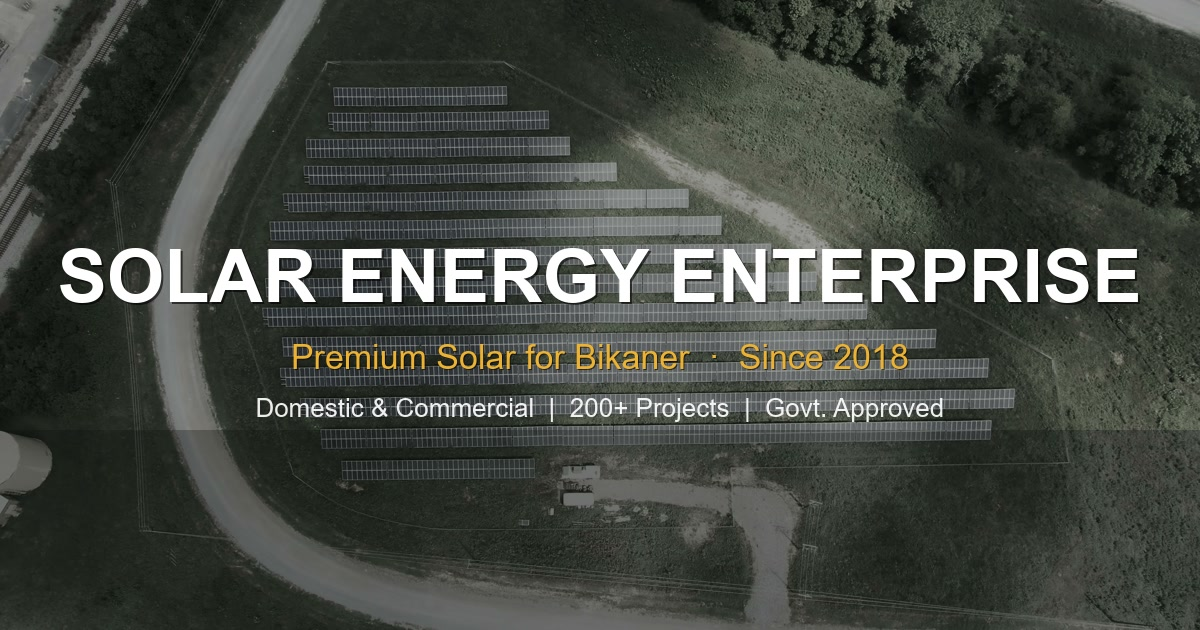
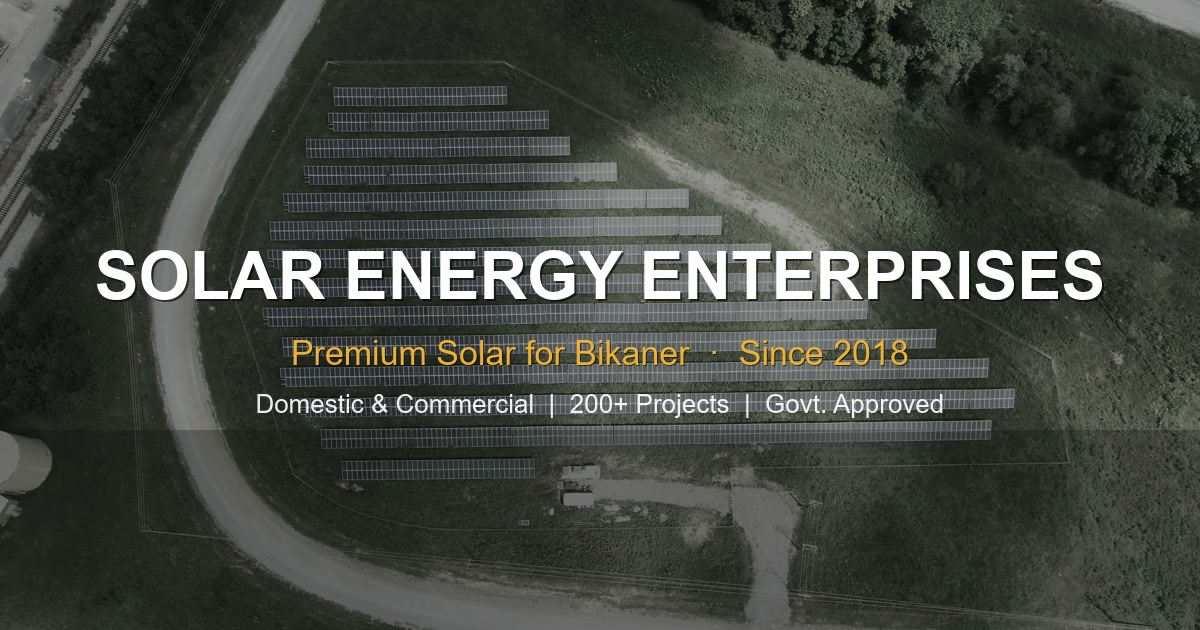
Rename brand to 'Solar Energy Enterprises' (plural) site-wide
Match the official/registered name used on Google, Justdial and the
invoice, for NAP consistency and local SEO.
- Logo wordmark, nav, footer, loader, titles, meta, OG/Twitter,
  JSON-LD schema, manifest, and support WhatsApp message
- Regenerated OG share image with the plural name; og-image ?v=2
- support.js ?v=2

Changed region(s): [[0.0308, 0.3921, 0.9558, 0.4825], [0.2158, 0.5429, 0.8017, 0.6635], [0.6167, 0.5429, 0.7708, 0.6032]]

diff --git a/index.html b/index.html
@@ -4,11 +4,11 @@
 <meta charset="utf-8">
 <meta name="viewport" content="width=device-width, initial-scale=1">
 <script>document.documentElement.classList.add('js')</script>
-<title>Solar Energy Enterprise — Premium Solar for Bikaner</title>
+<title>Solar Energy Enterprises — Premium Solar for Bikaner</title>
 <meta name="description" content="Rajasthan's premium solar partner since 2018. Domestic and commercial solar — design, installation and support. Approved by State & Central Government. 200+ projects delivered.">
 <meta name="robots" content="index, follow, max-image-preview:large">
 <meta name="keywords" content="solar Bikaner, solar panel Bikaner, rooftop solar Rajasthan, residential solar, commercial solar, PM Surya Ghar, solar subsidy, solar installation Bikaner">
-<meta name="author" content="Solar Energy Enterprise">
+<meta name="author" content="Solar Energy Enterprises">
 <meta name="geo.region" content="IN-RJ">
 <meta name="geo.placename" content="Bikaner">
 <meta name="theme-color" content="#ff6a1a">
@@ -18,22 +18,22 @@
 <link rel="apple-touch-icon" href="/assets/img/icon-180.png">
 <link rel="manifest" href="/site.webmanifest">
 <meta property="og:type" content="website">
-<meta property="og:site_name" content="Solar Energy Enterprise">
-<meta property="og:title" content="Solar Energy Enterprise — Premium Solar for Bikaner">
+<meta property="og:site_name" content="Solar Energy Enterprises">
+<meta property="og:title" content="Solar Energy Enterprises — Premium Solar for Bikaner">
 <meta property="og:description" content="Rajasthan's premium solar partner since 2018. Domestic & commercial solar, design to support. Govt. approved. 200+ projects delivered.">
 <meta property="og:url" content="https://solarenergyenterprise.com/">
-<meta property="og:image" content="https://solarenergyenterprise.com/assets/img/og-image.jpg">
+<meta property="og:image" content="https://solarenergyenterprise.com/assets/img/og-image.jpg?v=2">
 <meta property="og:image:width" content="1200">
 <meta property="og:image:height" content="630">
 <meta property="og:locale" content="en_IN">
 <meta name="twitter:card" content="summary_large_image">
-<meta name="twitter:title" content="Solar Energy Enterprise — Premium Solar for Bikaner">
+<meta name="twitter:title" content="Solar Energy Enterprises — Premium Solar for Bikaner">
 <meta name="twitter:description" content="Domestic & commercial solar in Bikaner since 2018. Govt. approved. 200+ projects delivered.">
-<meta name="twitter:image" content="https://solarenergyenterprise.com/assets/img/og-image.jpg">
+<meta name="twitter:image" content="https://solarenergyenterprise.com/assets/img/og-image.jpg?v=2">
 <script type="application/ld+json">
 {"@context":"https://schema.org","@graph":[
-{"@type":"ElectricalContractor","@id":"https://solarenergyenterprise.com/#business","name":"Solar Energy Enterprise","image":"https://solarenergyenterprise.com/assets/img/og-image.jpg","logo":"https://solarenergyenterprise.com/assets/img/icon-180.png","url":"https://solarenergyenterprise.com/","telephone":"+916376728054","priceRange":"₹₹","foundingDate":"2018","description":"Premium domestic & commercial solar in Bikaner, Rajasthan — design, installation and support. Approved by State & Central Government. 200+ projects delivered.","address":{"@type":"PostalAddress","streetAddress":"Jawahar Nagar, Near Dudi Petrol Pump","addressLocality":"Bikaner","addressRegion":"Rajasthan","postalCode":"334001","addressCountry":"IN"},"geo":{"@type":"GeoCoordinates","latitude":28.0229,"longitude":73.3119},"areaServed":[{"@type":"City","name":"Bikaner"},{"@type":"State","name":"Rajasthan"}],"openingHoursSpecification":[{"@type":"OpeningHoursSpecification","dayOfWeek":["Monday","Tuesday","Wednesday","Thursday","Friday","Saturday"],"opens":"09:30","closes":"19:00"}],"contactPoint":[{"@type":"ContactPoint","telephone":"+916376728054","contactType":"sales"},{"@type":"ContactPoint","telephone":"+919829641110","contactType":"customer support"}],"hasOfferCatalog":{"@type":"OfferCatalog","name":"Solar Solutions","itemListElement":[{"@type":"Offer","priceCurrency":"INR","price":"180000","itemOffered":{"@type":"Service","name":"Residential Solar (3–20 KW)"}},{"@type":"Offer","priceCurrency":"INR","price":"350000","itemOffered":{"@type":"Service","name":"Commercial Solar (5–200 KW)"}}]}},
-{"@type":"WebSite","@id":"https://solarenergyenterprise.com/#website","url":"https://solarenergyenterprise.com/","name":"Solar Energy Enterprise","publisher":{"@id":"https://solarenergyenterprise.com/#business"}}
+{"@type":"ElectricalContractor","@id":"https://solarenergyenterprise.com/#business","name":"Solar Energy Enterprises","image":"https://solarenergyenterprise.com/assets/img/og-image.jpg?v=2","logo":"https://solarenergyenterprise.com/assets/img/icon-180.png","url":"https://solarenergyenterprise.com/","telephone":"+916376728054","priceRange":"₹₹","foundingDate":"2018","description":"Premium domestic & commercial solar in Bikaner, Rajasthan — design, installation and support. Approved by State & Central Government. 200+ projects delivered.","address":{"@type":"PostalAddress","streetAddress":"Jawahar Nagar, Near Dudi Petrol Pump","addressLocality":"Bikaner","addressRegion":"Rajasthan","postalCode":"334001","addressCountry":"IN"},"geo":{"@type":"GeoCoordinates","latitude":28.0229,"longitude":73.3119},"areaServed":[{"@type":"City","name":"Bikaner"},{"@type":"State","name":"Rajasthan"}],"openingHoursSpecification":[{"@type":"OpeningHoursSpecification","dayOfWeek":["Monday","Tuesday","Wednesday","Thursday","Friday","Saturday"],"opens":"09:30","closes":"19:00"}],"contactPoint":[{"@type":"ContactPoint","telephone":"+916376728054","contactType":"sales"},{"@type":"ContactPoint","telephone":"+919829641110","contactType":"customer support"}],"hasOfferCatalog":{"@type":"OfferCatalog","name":"Solar Solutions","itemListElement":[{"@type":"Offer","priceCurrency":"INR","price":"180000","itemOffered":{"@type":"Service","name":"Residential Solar (3–20 KW)"}},{"@type":"Offer","priceCurrency":"INR","price":"350000","itemOffered":{"@type":"Service","name":"Commercial Solar (5–200 KW)"}}]}},
+{"@type":"WebSite","@id":"https://solarenergyenterprise.com/#website","url":"https://solarenergyenterprise.com/","name":"Solar Energy Enterprises","publisher":{"@id":"https://solarenergyenterprise.com/#business"}}
 ]}
 </script>
 <link rel="preconnect" href="https://fonts.googleapis.com">
@@ -50,7 +50,7 @@
 <div class="loader" id="loader" aria-hidden="true">
   <div class="loader__in">
     <div class="loader__mark"><svg viewBox="0 0 128 128"><use href="#i-mark"/></svg></div>
-    <div class="loader__name">Solar Energy Enterprise</div>
+    <div class="loader__name">Solar Energy Enterprises</div>
     <div class="loader__tag">Renewable Energy</div>
     <div class="loader__bar"><i id="loaderBar"></i></div>
     <div class="loader__pct"><span id="loaderPct">0</span>%</div>
@@ -76,9 +76,9 @@
 <!-- NAV -->
 <header class="nav" id="nav">
   <div class="wrap nav__in">
-    <a class="brand" href="#top" data-cursor="hover" aria-label="Solar Energy Enterprise — home">
+    <a class="brand" href="#top" data-cursor="hover" aria-label="Solar Energy Enterprises — home">
       <span class="brand__mark"><svg viewBox="0 0 128 128"><use href="#i-mark"/></svg></span>
-      <span class="brand__txt">Solar Energy<br><em>Enterprise</em></span>
+      <span class="brand__txt">Solar Energy<br><em>Enterprises</em></span>
     </a>
     <nav class="nav__links" aria-label="Primary">
       <a href="#about" data-cursor="hover">About</a>
@@ -190,7 +190,7 @@
         <h2 class="display reveal-lines">Powering a brighter future <em>since 2018.</em></h2>
       </div>
       <div class="story__body">
-        <p class="story__lead reveal">Since 2018, Solar Energy Enterprise has delivered reliable, efficient solar
+        <p class="story__lead reveal">Since 2018, Solar Energy Enterprises has delivered reliable, efficient solar
           energy solutions for homes, businesses and institutions — built on technical expertise, quality
           workmanship and the trust of our customers.</p>
         <p class="reveal">With 200+ successfully completed projects, our work is supported by registrations and
@@ -308,7 +308,7 @@
   <footer class="foot">
     <div class="wrap foot__grid">
       <div class="foot__brand">
-        <a class="brand" href="#top"><span class="brand__mark"><svg viewBox="0 0 128 128"><use href="#i-mark"/></svg></span><span class="brand__txt">Solar Energy<br><em>Enterprise</em></span></a>
+        <a class="brand" href="#top"><span class="brand__mark"><svg viewBox="0 0 128 128"><use href="#i-mark"/></svg></span><span class="brand__txt">Solar Energy<br><em>Enterprises</em></span></a>
         <p>Clean energy, honestly engineered. Powering homes and businesses across Bikaner and Rajasthan since 2018.</p>
       </div>
       <div class="foot__col"><h4>Solutions</h4><a href="residential.html">Residential Solar</a><a href="residential.html">Domestic 3–20 KW</a><a href="commercial.html">Commercial Solar</a><a href="commercial.html">Commercial 5–200 KW</a></div>
@@ -323,7 +323,7 @@
       </div>
     </div>
     <div class="wrap foot__base">
-      <span>© 2026 Solar Energy Enterprise. All rights reserved.</span>
+      <span>© 2026 Solar Energy Enterprises. All rights reserved.</span>
       <a class="foot__top" href="#top" data-cursor="hover">Back to top <svg class="ic"><use href="#i-arrow-up"/></svg></a>
     </div>
   </footer>

diff --git a/residential.html b/residential.html
@@ -4,7 +4,7 @@
 <meta charset="utf-8">
 <meta name="viewport" content="width=device-width, initial-scale=1">
 <script>document.documentElement.classList.add('js')</script>
-<title>Residential Solar — Solar Energy Enterprise, Bikaner</title>
+<title>Residential Solar — Solar Energy Enterprises, Bikaner</title>
 <meta name="description" content="Residential solar for homes & villas in Bikaner — 3 KW to 20 KW from Rs 1.80 Lakh with Rs 78,000 subsidy. Why solar, how it works, benefits and projects.">
 <meta name="robots" content="index, follow, max-image-preview:large">
 <meta name="keywords" content="residential solar Bikaner, home solar Rajasthan, rooftop solar subsidy, PM Surya Ghar, 3kw 5kw solar price">
@@ -15,21 +15,21 @@
 <link rel="apple-touch-icon" href="/assets/img/icon-180.png">
 <link rel="manifest" href="/site.webmanifest">
 <meta property="og:type" content="website">
-<meta property="og:site_name" content="Solar Energy Enterprise">
-<meta property="og:title" content="Residential Solar — Solar Energy Enterprise, Bikaner">
+<meta property="og:site_name" content="Solar Energy Enterprises">
+<meta property="og:title" content="Residential Solar — Solar Energy Enterprises, Bikaner">
 <meta property="og:description" content="Rooftop solar for homes & villas, 3–20 KW, from ₹1.80 Lakh with ₹78,000 subsidy. Subsidy handled end-to-end.">
 <meta property="og:url" content="https://solarenergyenterprise.com/residential.html">
-<meta property="og:image" content="https://solarenergyenterprise.com/assets/img/og-image.jpg">
+<meta property="og:image" content="https://solarenergyenterprise.com/assets/img/og-image.jpg?v=2">
 <meta property="og:image:width" content="1200">
 <meta property="og:image:height" content="630">
 <meta property="og:locale" content="en_IN">
 <meta name="twitter:card" content="summary_large_image">
-<meta name="twitter:title" content="Residential Solar — Solar Energy Enterprise, Bikaner">
+<meta name="twitter:title" content="Residential Solar — Solar Energy Enterprises, Bikaner">
 <meta name="twitter:description" content="Rooftop solar for homes, 3–20 KW, from ₹1.80 Lakh with ₹78,000 subsidy.">
-<meta name="twitter:image" content="https://solarenergyenterprise.com/assets/img/og-image.jpg">
+<meta name="twitter:image" content="https://solarenergyenterprise.com/assets/img/og-image.jpg?v=2">
 <script type="application/ld+json">
 {"@context":"https://schema.org","@graph":[
-{"@type":"Service","name":"Residential Solar Installation","serviceType":"Residential rooftop solar","provider":{"@id":"https://solarenergyenterprise.com/#business","@type":"ElectricalContractor","name":"Solar Energy Enterprise"},"areaServed":{"@type":"State","name":"Rajasthan"},"description":"Rooftop solar for homes & villas, 3–20 KW, from ₹1.80 Lakh with ₹78,000 subsidy.","offers":{"@type":"Offer","priceCurrency":"INR","price":"180000"}},
+{"@type":"Service","name":"Residential Solar Installation","serviceType":"Residential rooftop solar","provider":{"@id":"https://solarenergyenterprise.com/#business","@type":"ElectricalContractor","name":"Solar Energy Enterprises"},"areaServed":{"@type":"State","name":"Rajasthan"},"description":"Rooftop solar for homes & villas, 3–20 KW, from ₹1.80 Lakh with ₹78,000 subsidy.","offers":{"@type":"Offer","priceCurrency":"INR","price":"180000"}},
 {"@type":"BreadcrumbList","itemListElement":[{"@type":"ListItem","position":1,"name":"Home","item":"https://solarenergyenterprise.com/"},{"@type":"ListItem","position":2,"name":"Residential Solar","item":"https://solarenergyenterprise.com/residential.html"}]}
 ]}
 </script>
@@ -58,9 +58,9 @@
 
 <header class="nav" id="nav">
   <div class="wrap nav__in">
-    <a class="brand" href="index.html" data-cursor="hover" aria-label="Solar Energy Enterprise — home">
+    <a class="brand" href="index.html" data-cursor="hover" aria-label="Solar Energy Enterprises — home">
       <span class="brand__mark"><svg viewBox="0 0 128 128"><use href="#i-mark"/></svg></span>
-      <span class="brand__txt">Solar Energy<br><em>Enterprise</em></span>
+      <span class="brand__txt">Solar Energy<br><em>Enterprises</em></span>
     </a>
     <nav class="nav__links" aria-label="Primary">
       <a href="index.html#about" data-cursor="hover">About</a>
@@ -151,7 +151,7 @@
   <section class="psec" id="benefits">
     <div class="wrap">
       <div class="psec__head"><p class="eyebrow reveal"><span class="dot"></span>Benefits</p>
-        <h2 class="display reveal-lines">Why families choose <em>Solar Energy Enterprise.</em></h2></div>
+        <h2 class="display reveal-lines">Why families choose <em>Solar Energy Enterprises.</em></h2></div>
       <div class="fgrid">
         <div class="fcard reveal"><svg class="fcard__ic"><use href="#i-rupee"/></svg><h3>Up to 90% savings</h3><p>Most homes see their electricity bill fall to a fraction of what it was.</p></div>
         <div class="fcard reveal"><svg class="fcard__ic"><use href="#i-check"/></svg><h3>₹78,000 subsidy</h3><p>Central government subsidy on residential systems, handled end-to-end.</p></div>
@@ -192,7 +192,7 @@
 
   <footer class="foot">
     <div class="wrap foot__grid">
-      <div class="foot__brand"><a class="brand" href="index.html"><span class="brand__mark"><svg viewBox="0 0 128 128"><use href="#i-mark"/></svg></span><span class="brand__txt">Solar Energy<br><em>Enterprise</em></span></a>
+      <div class="foot__brand"><a class="brand" href="index.html"><span class="brand__mark"><svg viewBox="0 0 128 128"><use href="#i-mark"/></svg></span><span class="brand__txt">Solar Energy<br><em>Enterprises</em></span></a>
         <p>Clean energy, honestly engineered. Powering homes and businesses across Bikaner and Rajasthan since 2018.</p></div>
       <div class="foot__col"><h4>Solutions</h4><a href="residential.html">Residential Solar</a><a href="commercial.html">Commercial Solar</a><a href="index.html#services">Pricing</a></div>
       <div class="foot__col"><h4>Company</h4><a href="index.html#about">About us</a><a href="index.html#story">Our story</a><a href="index.html#process">Process</a><a href="support.html">Register a complaint</a></div>
@@ -202,7 +202,7 @@
         <span>Jawahar Nagar, Nr. Dudi Petrol Pump,<br>Bikaner, Rajasthan 334001</span>
         <span class="foot__hours">GSTIN 08AFHFS4941J1ZK</span></div>
     </div>
-    <div class="wrap foot__base"><span>© 2026 Solar Energy Enterprise. All rights reserved.</span>
+    <div class="wrap foot__base"><span>© 2026 Solar Energy Enterprises. All rights reserved.</span>
       <a class="foot__top" href="#top" data-cursor="hover">Back to top <svg class="ic"><use href="#i-arrow-up"/></svg></a></div>
   </footer>
 </main>

diff --git a/commercial.html b/commercial.html
@@ -4,7 +4,7 @@
 <meta charset="utf-8">
 <meta name="viewport" content="width=device-width, initial-scale=1">
 <script>document.documentElement.classList.add('js')</script>
-<title>Commercial Solar — Solar Energy Enterprise, Bikaner</title>
+<title>Commercial Solar — Solar Energy Enterprises, Bikaner</title>
 <meta name="description" content="Commercial & industrial solar in Bikaner — 5 KW to 200 KW from Rs 3.50 Lakh. Business benefits, industries served, projects and ROI / performance.">
 <meta name="robots" content="index, follow, max-image-preview:large">
 <meta name="keywords" content="commercial solar Bikaner, industrial solar Rajasthan, factory solar, business solar ROI, 50kw 100kw solar price">
@@ -15,21 +15,21 @@
 <link rel="apple-touch-icon" href="/assets/img/icon-180.png">
 <link rel="manifest" href="/site.webmanifest">
 <meta property="og:type" content="website">
-<meta property="og:site_name" content="Solar Energy Enterprise">
-<meta property="og:title" content="Commercial Solar — Solar Energy Enterprise, Bikaner">
+<meta property="og:site_name" content="Solar Energy Enterprises">
+<meta property="og:title" content="Commercial Solar — Solar Energy Enterprises, Bikaner">
 <meta property="og:description" content="High-yield commercial & industrial solar, 5–200 KW, from ₹3.50 Lakh. Cut operating costs for offices, showrooms, hotels and factories.">
 <meta property="og:url" content="https://solarenergyenterprise.com/commercial.html">
-<meta property="og:image" content="https://solarenergyenterprise.com/assets/img/og-image.jpg">
+<meta property="og:image" content="https://solarenergyenterprise.com/assets/img/og-image.jpg?v=2">
 <meta property="og:image:width" content="1200">
 <meta property="og:image:height" content="630">
 <meta property="og:locale" content="en_IN">
 <meta name="twitter:card" content="summary_large_image">
-<meta name="twitter:title" content="Commercial Solar — Solar Energy Enterprise, Bikaner">
+<meta name="twitter:title" content="Commercial Solar — Solar Energy Enterprises, Bikaner">
 <meta name="twitter:description" content="Commercial & industrial solar, 5–200 KW, from ₹3.50 Lakh. Lower operating costs.">
-<meta name="twitter:image" content="https://solarenergyenterprise.com/assets/img/og-image.jpg">
+<meta name="twitter:image" content="https://solarenergyenterprise.com/assets/img/og-image.jpg?v=2">
 <script type="application/ld+json">
 {"@context":"https://schema.org","@graph":[
-{"@type":"Service","name":"Commercial Solar Installation","serviceType":"Commercial & industrial solar","provider":{"@id":"https://solarenergyenterprise.com/#business","@type":"ElectricalContractor","name":"Solar Energy Enterprise"},"areaServed":{"@type":"State","name":"Rajasthan"},"description":"High-yield commercial & industrial solar, 5–200 KW, from ₹3.50 Lakh.","offers":{"@type":"Offer","priceCurrency":"INR","price":"350000"}},
+{"@type":"Service","name":"Commercial Solar Installation","serviceType":"Commercial & industrial solar","provider":{"@id":"https://solarenergyenterprise.com/#business","@type":"ElectricalContractor","name":"Solar Energy Enterprises"},"areaServed":{"@type":"State","name":"Rajasthan"},"description":"High-yield commercial & industrial solar, 5–200 KW, from ₹3.50 Lakh.","offers":{"@type":"Offer","priceCurrency":"INR","price":"350000"}},
 {"@type":"BreadcrumbList","itemListElement":[{"@type":"ListItem","position":1,"name":"Home","item":"https://solarenergyenterprise.com/"},{"@type":"ListItem","position":2,"name":"Commercial Solar","item":"https://solarenergyenterprise.com/commercial.html"}]}
 ]}
 </script>
@@ -60,9 +60,9 @@
 
 <header class="nav" id="nav">
   <div class="wrap nav__in">
-    <a class="brand" href="index.html" data-cursor="hover" aria-label="Solar Energy Enterprise — home">
+    <a class="brand" href="index.html" data-cursor="hover" aria-label="Solar Energy Enterprises — home">
       <span class="brand__mark"><svg viewBox="0 0 128 128"><use href="#i-mark"/></svg></span>
-      <span class="brand__txt">Solar Energy<br><em>Enterprise</em></span>
+      <span class="brand__txt">Solar Energy<br><em>Enterprises</em></span>
     </a>
     <nav class="nav__links" aria-label="Primary">
       <a href="index.html#about" data-cursor="hover">About</a>
@@ -209,7 +209,7 @@
 
   <footer class="foot">
     <div class="wrap foot__grid">
-      <div class="foot__brand"><a class="brand" href="index.html"><span class="brand__mark"><svg viewBox="0 0 128 128"><use href="#i-mark"/></svg></span><span class="brand__txt">Solar Energy<br><em>Enterprise</em></span></a>
+      <div class="foot__brand"><a class="brand" href="index.html"><span class="brand__mark"><svg viewBox="0 0 128 128"><use href="#i-mark"/></svg></span><span class="brand__txt">Solar Energy<br><em>Enterprises</em></span></a>
         <p>Clean energy, honestly engineered. Powering homes and businesses across Bikaner and Rajasthan since 2018.</p></div>
       <div class="foot__col"><h4>Solutions</h4><a href="residential.html">Residential Solar</a><a href="commercial.html">Commercial Solar</a><a href="index.html#services">Pricing</a></div>
       <div class="foot__col"><h4>Company</h4><a href="index.html#about">About us</a><a href="index.html#story">Our story</a><a href="index.html#process">Process</a><a href="support.html">Register a complaint</a></div>
@@ -219,7 +219,7 @@
         <span>Jawahar Nagar, Nr. Dudi Petrol Pump,<br>Bikaner, Rajasthan 334001</span>
         <span class="foot__hours">GSTIN 08AFHFS4941J1ZK</span></div>
     </div>
-    <div class="wrap foot__base"><span>© 2026 Solar Energy Enterprise. All rights reserved.</span>
+    <div class="wrap foot__base"><span>© 2026 Solar Energy Enterprises. All rights reserved.</span>
       <a class="foot__top" href="#top" data-cursor="hover">Back to top <svg class="ic"><use href="#i-arrow-up"/></svg></a></div>
   </footer>
 </main>

diff --git a/support.html b/support.html
@@ -3,7 +3,7 @@
 <head>
 <meta charset="utf-8">
 <meta name="viewport" content="width=device-width, initial-scale=1">
-<title>Customer Support — Solar Energy Enterprise</title>
+<title>Customer Support — Solar Energy Enterprises</title>
 <meta name="description" content="Sign in with Google to register a complaint. Our team contacts you within 24 hours to resolve your issue.">
 <meta name="robots" content="noindex, follow">
 <meta name="theme-color" content="#ff6a1a">
@@ -36,9 +36,9 @@
 
 <header class="sup-nav">
   <div class="wrap sup-nav__in">
-    <a class="brand" href="index.html" aria-label="Solar Energy Enterprise — home">
+    <a class="brand" href="index.html" aria-label="Solar Energy Enterprises — home">
       <span class="brand__mark"><svg viewBox="0 0 128 128"><use href="#i-mark"/></svg></span>
-      <span class="brand__txt">Solar Energy<br><em>Enterprise</em></span>
+      <span class="brand__txt">Solar Energy<br><em>Enterprises</em></span>
     </a>
     <a class="sup-back" href="index.html"><svg class="ic"><use href="#i-back"/></svg><span>Back to site</span></a>
   </div>
@@ -47,7 +47,7 @@
 <main class="sup">
   <div class="wrap sup__wrap">
     <div class="sup__intro">
-      <p class="eyebrow"><span class="dot"></span>Solar Energy Enterprise · Customer Support</p>
+      <p class="eyebrow"><span class="dot"></span>Solar Energy Enterprises · Customer Support</p>
       <h1 class="display">Register a <em>complaint.</em></h1>
       <p class="sup__lead">Sign in with your Google account and tell us what's wrong. Your complaint reaches
         our team on WhatsApp instantly — and we'll get in touch to resolve it <strong>within 24 hours</strong>.</p>
@@ -61,9 +61,9 @@
     <div class="sup__card">
       <!-- STEP 1: auth -->
       <div id="authStep">
-        <div class="brand sup__brand" aria-label="Solar Energy Enterprise">
+        <div class="brand sup__brand" aria-label="Solar Energy Enterprises">
           <span class="brand__mark"><svg viewBox="0 0 128 128"><use href="#i-mark"/></svg></span>
-          <span class="brand__txt">Solar Energy<br><em>Enterprise</em></span>
+          <span class="brand__txt">Solar Energy<br><em>Enterprises</em></span>
         </div>
         <h2 class="sup__h2">Sign in to continue</h2>
         <p class="sup__hint">We use your Google account only to verify you and follow up on your complaint.</p>
@@ -135,12 +135,12 @@
 
 <footer class="sup-foot">
   <div class="wrap sup-foot__in">
-    <span>© 2026 Solar Energy Enterprise · Bikaner, Rajasthan</span>
+    <span>© 2026 Solar Energy Enterprises · Bikaner, Rajasthan</span>
     <a href="tel:+916376728054">+91 63767 28054</a>
   </div>
 </footer>
 
 <script src="https://accounts.google.com/gsi/client" async defer></script>
-<script src="js/support.js?v=1"></script>
+<script src="js/support.js?v=2"></script>
 </body>
 </html>

diff --git a/js/support.js b/js/support.js
@@ -1,4 +1,4 @@
-/* Solar Energy Enterprise — support / complaint portal */
+/* Solar Energy Enterprises — support / complaint portal */
 (function () {
   'use strict';
 
@@ -78,7 +78,7 @@
   /* ---- build WhatsApp message + submit ---- */
   function waLink(fields) {
     var lines = [
-      '*New Complaint — Solar Energy Enterprise*',
+      '*New Complaint — Solar Energy Enterprises*',
       '',
       '👤 Name: ' + user.name,
       '✉ Email: ' + user.email,
